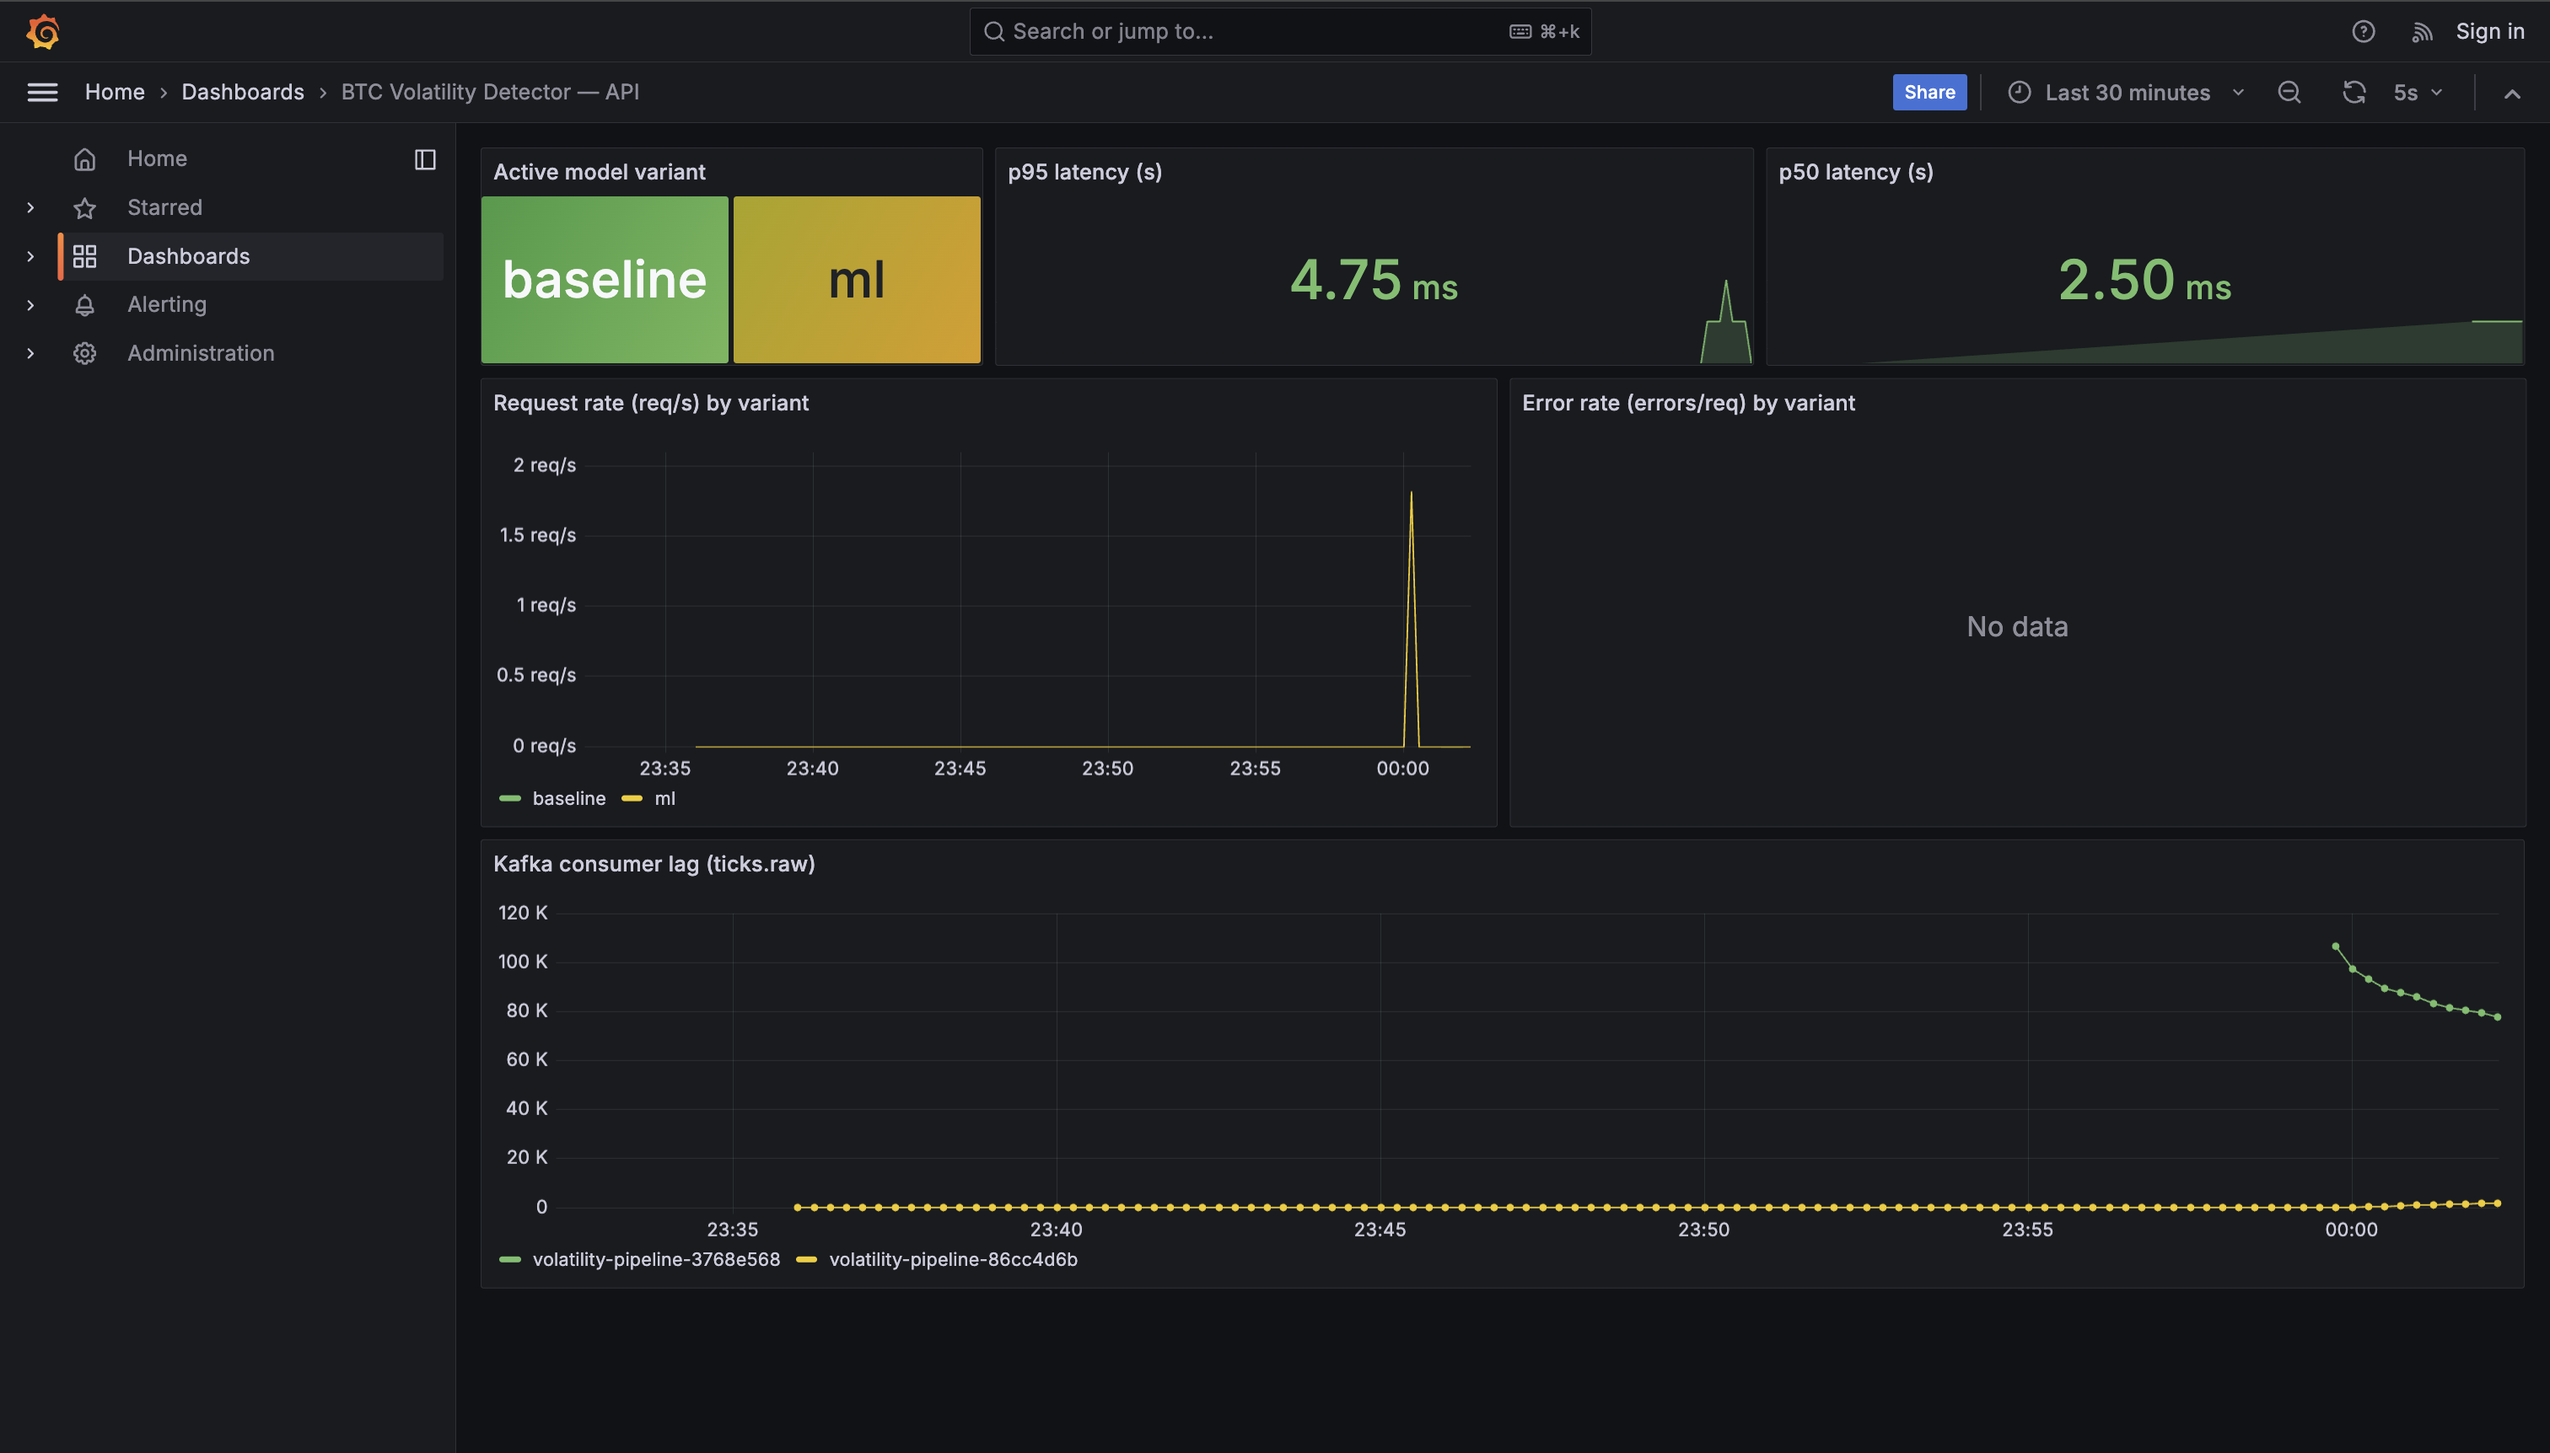
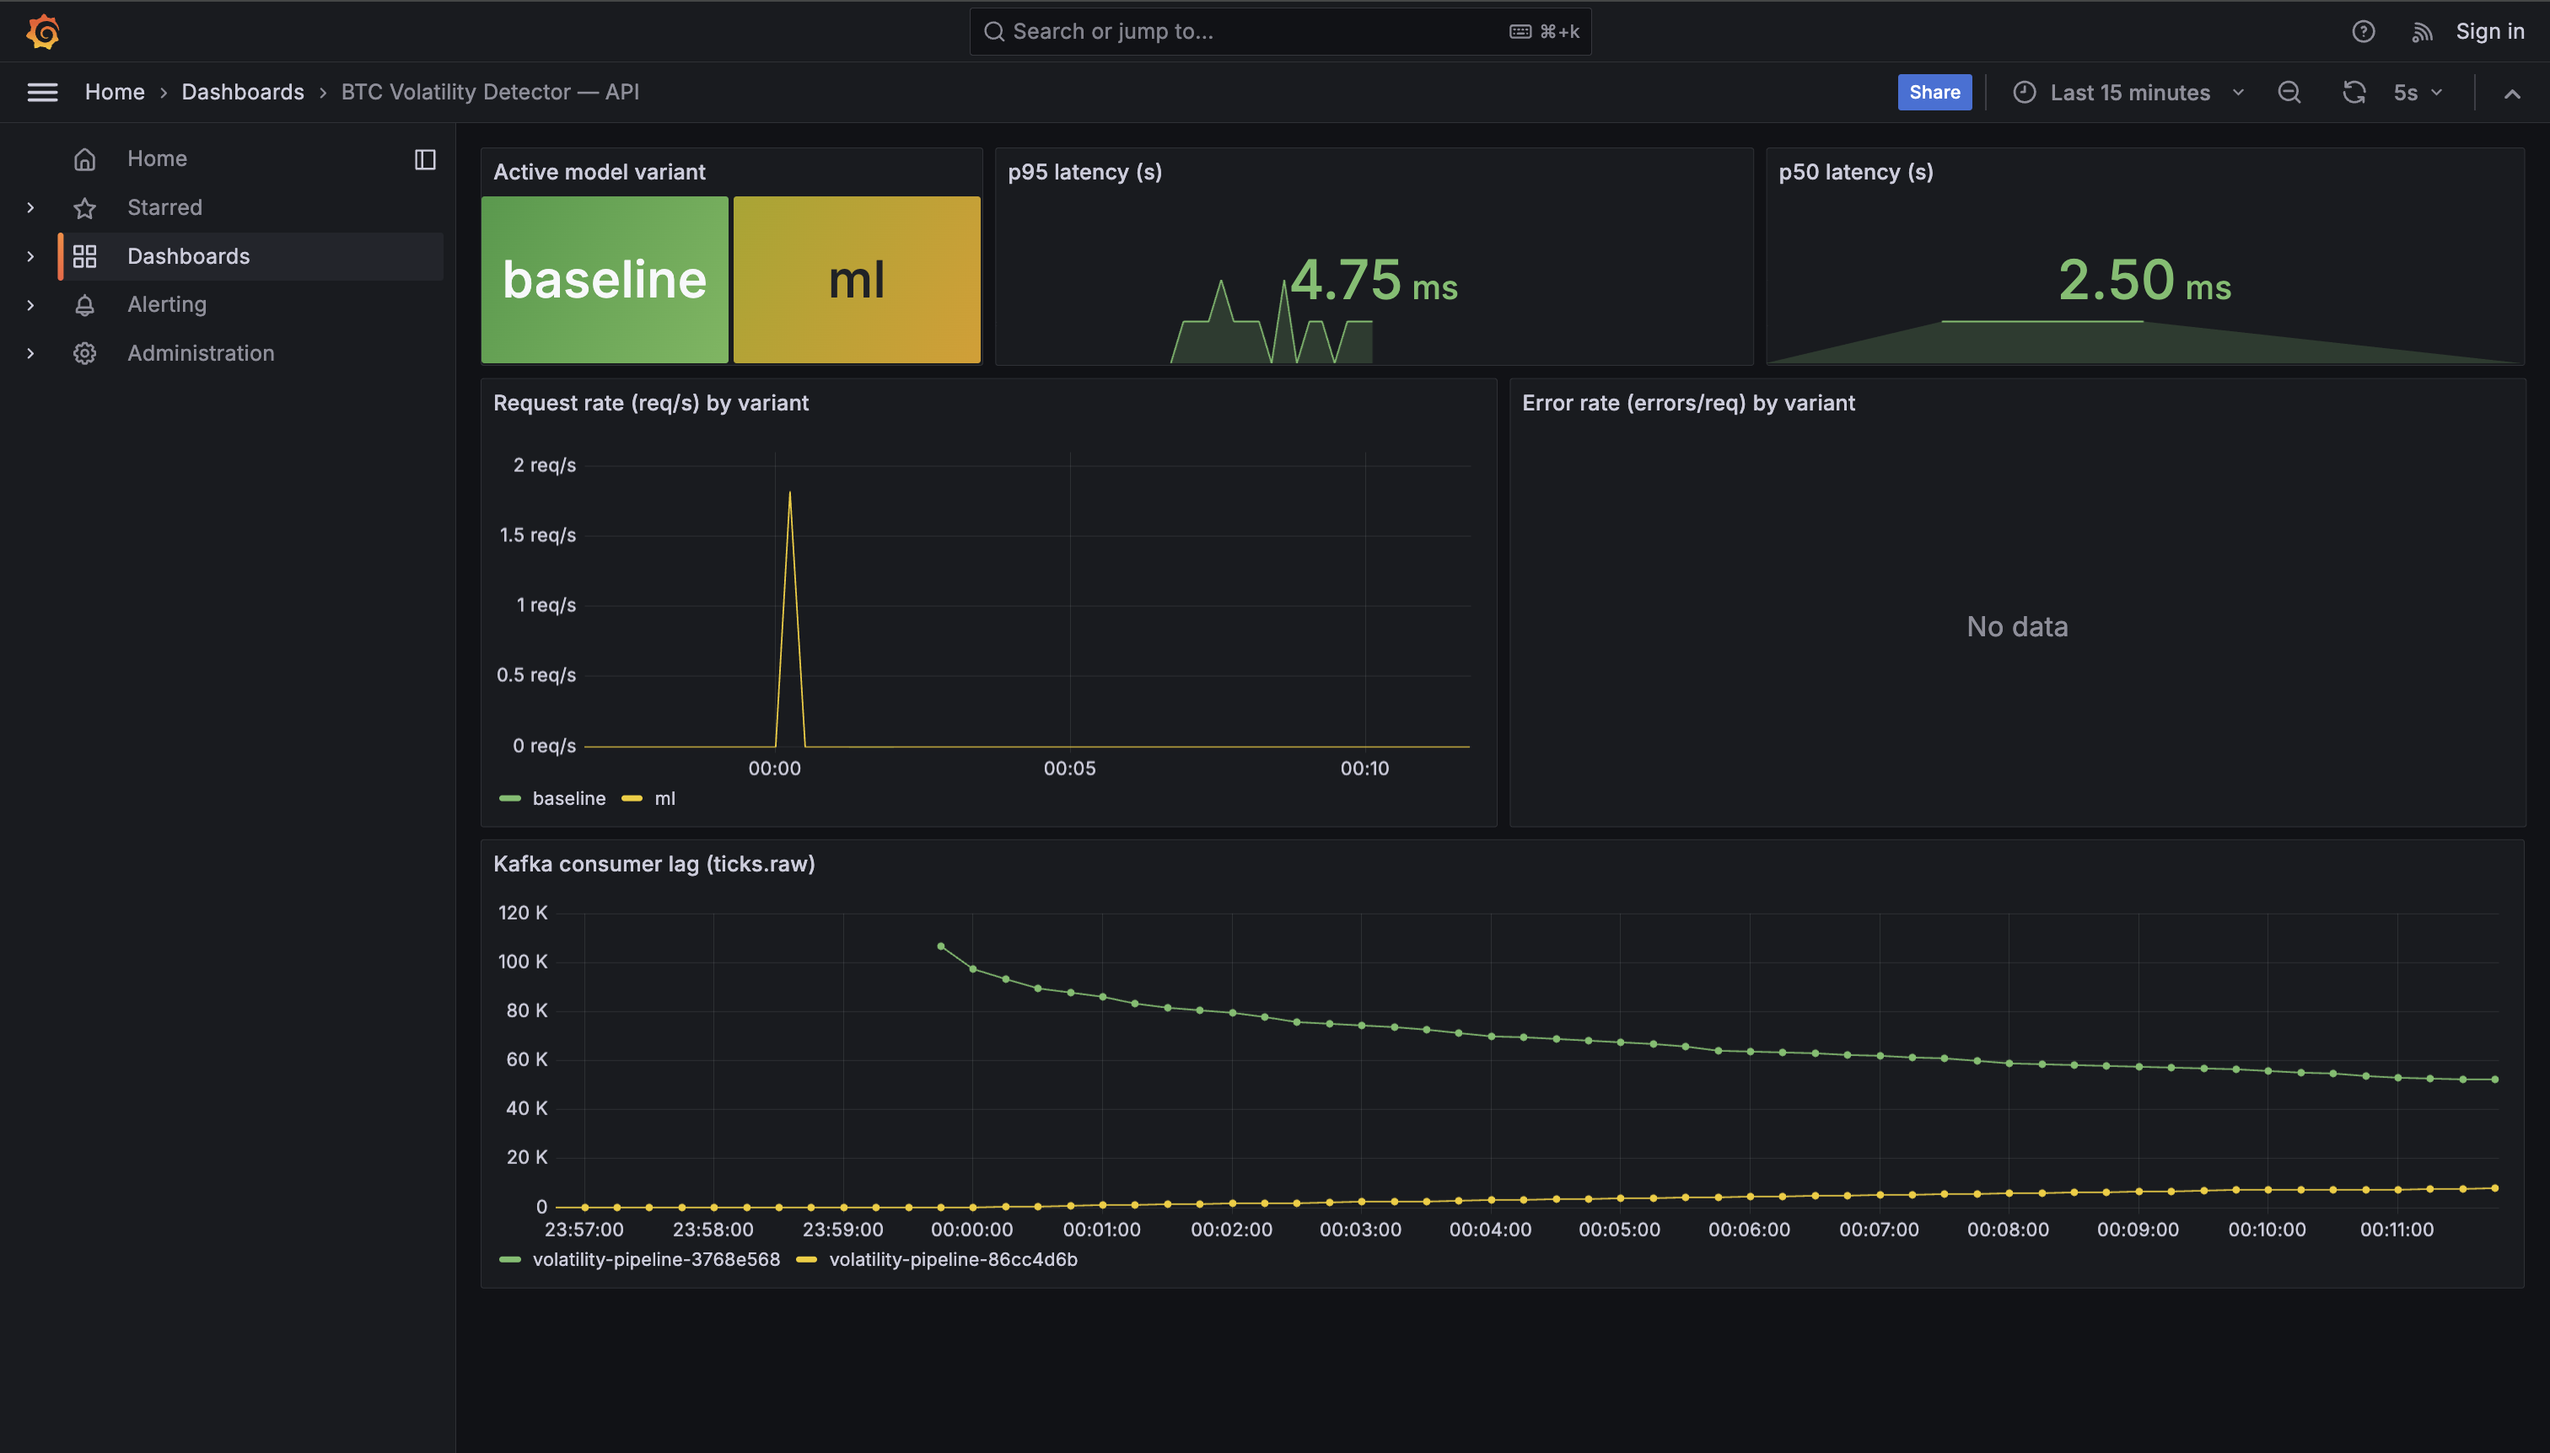
live data option added to docker and working

diff --git a/docs/demo_script.md b/docs/demo_script.md
@@ -1,0 +1,193 @@
+# Demo Script — 8-minute walkthrough
+
+## Pre-record (off camera)
+
+```bash
+docker compose down -v
+cp .env.example .env
+docker compose build
+```
+
+Open three terminal panes:
+
+- **Left** — compose / docker commands
+- **Top-right** — `curl` and `jq`
+- **Bottom-right** — `docker logs` follows
+
+And four browser tabs:
+
+1. http://localhost:8000/metrics
+2. http://localhost:9090/targets (Prometheus)
+3. http://localhost:3000 → "BTC Volatility Detector — API" (Grafana)
+4. http://localhost:5001 (MLflow)
+
+---
+
+## 0:00 – 0:45 — Frame the problem + cold start
+
+> "This is a real-time BTC volatility-spike detector. Coinbase ticks come in over Kafka, get featurized in 60-second rolling windows, and a logistic-regression model serves predictions over HTTP. Today I'll show the full stack come up cold, run on **both replay and live Coinbase data**, hit the SLOs, and survive a rollback."
+
+```bash
+docker compose up -d
+docker compose ps
+```
+
+Point to all 8 services `Up` / `(healthy)`.
+
+---
+
+## 0:45 – 1:30 — Smoke test the API
+
+```bash
+curl -s http://localhost:8000/health | jq .
+curl -s http://localhost:8000/version | jq .
+curl -s -X POST http://localhost:8000/predict \
+     -H 'Content-Type: application/json' \
+     -d @handoff/data_sample/sample.json | jq .
+```
+
+Call out in `/version`: `model_path`, `git_sha`, `variant: "ml"`, `baseline_vol_threshold`. Then:
+
+```bash
+curl -s http://localhost:8000/metrics | grep predict_request
+```
+
+> "Prometheus counters already accumulating, labeled by `model_variant` so the rollback toggle is observable end-to-end."
+
+---
+
+## 1:30 – 2:30 — Replay pipeline is actually streaming
+
+```bash
+docker logs --tail 5 ingestor
+docker logs --tail 5 featurizer
+docker exec kafka kafka-run-class kafka.tools.GetOffsetShell \
+    --broker-list kafka:29092 --topic ticks.raw --time -1
+sleep 8
+docker exec kafka kafka-run-class kafka.tools.GetOffsetShell \
+    --broker-list kafka:29092 --topic ticks.raw --time -1
+```
+
+> "Default mode is **replay** — looping a 10-minute Coinbase capture through Kafka at the original timestamps. Reproducible for grading. Offsets clearly growing between the two reads."
+
+---
+
+## 2:30 – 3:30 — Swap to live Coinbase ingestion
+
+> "But the brief asks for live data from Coinbase. Replay is the default; live is one command away."
+
+```bash
+docker compose stop ingestor
+docker compose --profile live up -d ws-ingestor
+docker logs -f ws-ingestor
+```
+
+Wait for: `[ticker] subscribed for BTC-USD → topic 'ticks.raw'`. `Ctrl-C` the follow.
+
+```bash
+docker exec kafka kafka-console-consumer \
+    --bootstrap-server kafka:29092 --topic ticks.raw \
+    --max-messages 1 --timeout-ms 5000
+```
+
+> "Real BTC tick from Coinbase, sub-second timestamp, same payload schema as replay. The featurizer and API didn't restart — Kafka decouples the source from everything downstream."
+
+Switch back so the demo stays reproducible:
+
+```bash
+docker compose stop ws-ingestor
+docker compose up -d ingestor
+```
+
+---
+
+## 3:30 – 4:45 — Observability tour + load test
+
+Switch to the Grafana tab. Walk the panels left-to-right:
+
+1. **Active variant** — `ml` highlighted.
+2. **p95 latency** — well under the 800 ms SLO line.
+3. **p50 latency** — for context.
+4. **Request rate by variant**.
+5. **Error rate by variant** — flat at zero.
+6. **Kafka consumer lag** — featurizer's group, small and stable.
+
+Then trigger a spike on camera:
+
+```bash
+python tests/load_test.py
+```
+
+Read result aloud: 100/100 success, p95 ~66 ms. Tie back to [`latency_report.md`](./latency_report.md) and [`slo.md`](./slo.md) — ~12× headroom on the latency SLO.
+
+---
+
+## 4:45 – 6:00 — Rollback drill (ML → baseline → ML)
+
+> "If the ML model misbehaves — drift, latency burn, error spike — we fall back to the deterministic baseline rule with one environment variable. Same code path is used as the science baseline, so the rollback target is the documented baseline, not a degraded approximation."
+
+```bash
+MODEL_VARIANT=baseline docker compose up -d api
+sleep 3
+curl -s http://localhost:8000/version | jq '.variant, .baseline_vol_threshold'
+curl -s -X POST http://localhost:8000/predict \
+     -H 'Content-Type: application/json' \
+     -d @handoff/data_sample/sample.json | jq '.model_variant, .scores'
+python tests/load_test.py
+```
+
+Show: `variant` flipped to `"baseline"`, scores are now hard 0/1 from the threshold rule. Switch to Grafana — Active variant panel flips, request-rate splits to the `baseline` series.
+
+```bash
+MODEL_VARIANT=ml docker compose up -d api
+sleep 3
+curl -s http://localhost:8000/version | jq '.variant'
+python tests/load_test.py
+```
+
+> "Three load-test spikes are now visible on the Grafana dashboard — one ml, one baseline, one ml — proving the rollback round-trips cleanly."
+
+---
+
+## 6:00 – 7:00 — Failure recovery
+
+```bash
+docker compose stop ingestor
+```
+
+Switch to Grafana. Within ~30 s the Kafka consumer-lag panel plateaus (no new raw ticks). API stays healthy on the Prometheus targets page.
+
+```bash
+docker compose start ingestor
+```
+
+Watch lag drain back down. Mention the runbook covers Kafka volume corruption, missing model artifact, and Grafana "No data" with the same one-line-fix pattern.
+
+---
+
+## 7:00 – 8:00 — Wrap-up + provenance
+
+```bash
+ls docs/
+```
+
+Call out, briefly:
+
+- [`docs/results.md`](./results.md) — single-page scorecard + Grafana screenshot of the run you just watched.
+- [`docs/slo.md`](./slo.md), [`latency_report.md`](./latency_report.md), [`drift_summary.md`](./drift_summary.md), [`runbook.md`](./runbook.md) — operational docs.
+- [`handoff/SELECTED_BASE_NOTE.md`](../handoff/SELECTED_BASE_NOTE.md) — model selection rationale (ablation study, Variant B winner).
+- MLflow tab — every training run logged with params, metrics, and the artifact mounted into the API container.
+- CI: GitHub Actions runs Black + Ruff + smoke test on every push.
+
+Closing line:
+
+> "End-to-end real-time inference, runs on both replay and live Coinbase data, 100 % success at p95 ≈ 66 ms, model beats the rule-based baseline by ~9 % PR-AUC, and rollback is one env var with sub-10-second propagation. That's the deliverable."
+
+---
+
+## Recording tips
+
+- **Pre-build** with `docker compose build` before recording so the cold-start beat is `up -d`, not `up --build`.
+- The two slow beats are the Kafka offset wait (1:30) and the live-ingest connection (2:30 — usually < 5 s but Coinbase sometimes takes ~15 s). During those waits, narrate the architecture instead of waiting silently.
+- **If you overrun**, the easiest cut is the failure-recovery beat (6:00 – 7:00) — it's already in the runbook. Live ingestion (2:30 – 3:30) is the second-easiest cut but it's the strongest single beat in the demo, so keep it if at all possible.
+- **Camera order trick:** record the live-ingestion beat first while you have a fresh Coinbase connection, then go back and record the cold-start beat. Your editor will reorder them; viewers won't know.

diff --git a/docs/results.md b/docs/results.md
@@ -11,6 +11,30 @@ Single-page summary of the production system's measured performance against the 
 | Held-out test PR-AUC, ML vs baseline | **0.1459 vs 0.1340** | ML > baseline | PASS (+8.9 %) |
 | Rollback time, ML → baseline | **< 10 s** | manual, fast | PASS |
 | Services up under `docker compose up -d` | **8 / 8** | 8 / 8 | PASS |
+| Live Coinbase ingestion (`--profile live`) | **verified** | available | PASS |
+
+## Live ingestion (verified)
+
+The default stack runs in replay mode for reproducibility, but live Coinbase ingestion is wired and verified. Bringing it up:
+
+```bash
+docker compose stop ingestor
+docker compose --profile live up -d ws-ingestor
+```
+
+End-to-end check observed during testing:
+
+- `ws-ingestor` connected to `wss://advanced-trade-ws.coinbase.com`, subscribed to the `ticker` and `heartbeats` channels for BTC-USD.
+- `ticks.raw` Kafka offset advanced from 117,317 → 117,398 in ~10 s (≈ 8 ticks/s, matching Coinbase's published ticker rate).
+- Sample message consumed from `ticks.raw`:
+
+  ```json
+  {"product_id": "BTC-USD", "price": "75681.74", "best_bid": "75681.74",
+   "best_ask": "75681.75", "volume_24_h": "4068.30928598",
+   "timestamp": "2026-04-19T04:10:41.328613453Z"}
+  ```
+
+- The featurizer, API, and monitoring stack required no changes — same Kafka payload schema as the replay path. The two ingestors are interchangeable behind the `ticks.raw` topic.
 
 ## Live dashboard
 

diff --git a/docs/runbook.md b/docs/runbook.md
@@ -27,6 +27,25 @@ curl -X POST http://localhost:8000/predict \
 python tests/load_test.py              # 100 burst requests, expect p95 < 800ms
 ```
 
+## Switch to live ingestion
+
+The default stack runs in **replay mode** (loops a 10-minute Coinbase capture). To stream live ticks from Coinbase's public WebSocket instead:
+
+```bash
+docker compose stop ingestor                              # stop the replay source
+docker compose --profile live up -d ws-ingestor           # start the live source
+docker logs -f ws-ingestor                                # confirm "[ticker] subscribed for BTC-USD → topic 'ticks.raw'"
+```
+
+Both ingestors publish to `ticks.raw`; run only one at a time. To revert:
+
+```bash
+docker compose stop ws-ingestor
+docker compose up -d ingestor
+```
+
+`ws_ingest.py` has exponential-backoff reconnect, a circuit breaker (exits non-zero after 10 consecutive failures so Compose's `restart: on-failure` rebuilds the connection), and sequence-gap logging for feed-integrity monitoring.
+
 ## Rollback (ML → baseline)
 
 When the ML variant misbehaves (latency burns budget, error spike, drift alert), fall back to the deterministic baseline:

diff --git a/README.md b/README.md
@@ -14,6 +14,19 @@ curl -X POST http://localhost:8000/predict \
      -d @handoff/data_sample/sample.json
 ```
 
+## Replay vs live ingestion
+
+The default `docker compose up -d` runs the **replay** ingestor — loops a 10-minute Coinbase capture through Kafka at the original timestamps. Reproducible, no network dependency, what graders should run.
+
+To switch to **live** ingestion from Coinbase's public WebSocket (no API keys required, public ticker channel):
+
+```bash
+docker compose stop ingestor
+docker compose --profile live up -d ws-ingestor
+```
+
+Both services publish to the same `ticks.raw` topic, so run only one at a time. The featurizer, API, and monitoring stack are agnostic to the source — same Kafka payload schema either way.
+
 ## Endpoints & dashboards
 
 | Service | URL | Notes |
